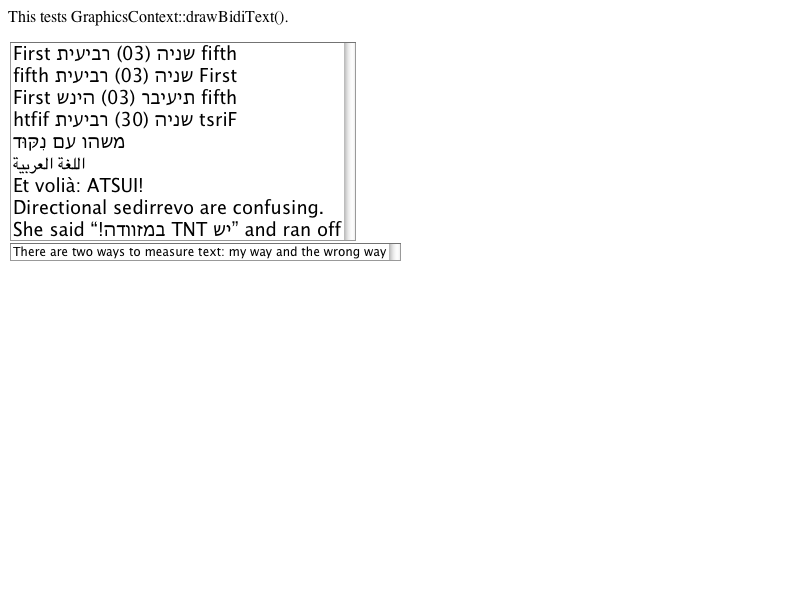
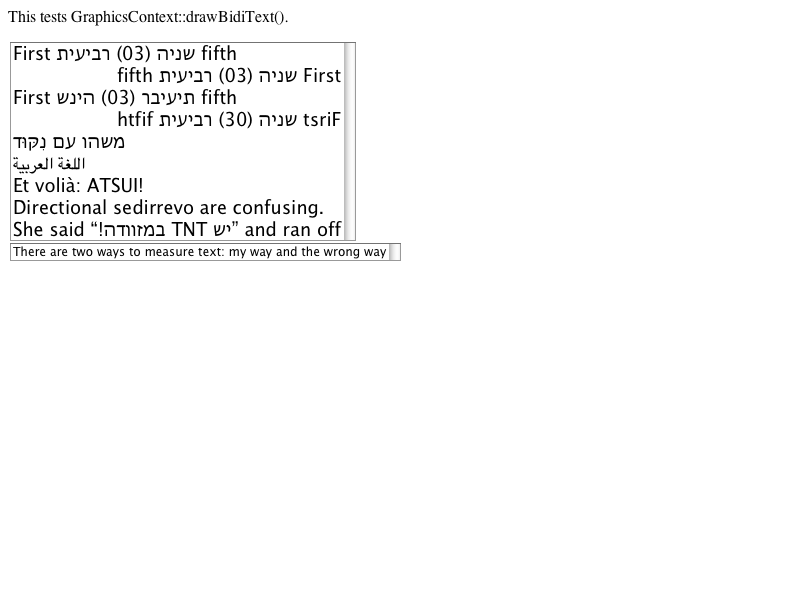
2011-03-28  Ofri Wolfus  <ofri@google.com>
Reviewed by Eric Seidel.

        RTL: Select elements with a size attribute are always left aligned.
        https://bugs.webkit.org/show_bug.cgi?id=50928

        Added support for alignment in RenderListBox.

        * fast/forms/listbox-bidi-align.html: Added.
        * platform/mac/fast/forms/listbox-bidi-align-expected.checksum: Added.
        * platform/mac/fast/forms/listbox-bidi-align-expected.png: Added.
        * platform/mac/fast/forms/listbox-bidi-align-expected.txt: Added.
        * platform/mac/fast/text/drawBidiText-expected.checksum: Updated.
        * platform/mac/fast/text/drawBidiText-expected.png: Updated.
2011-03-28  Ofri Wolfus  <ofri@google.com>

        Reviewed by Eric Seidel.

        RTL: Select elements with a size attribute are always left aligned.
        https://bugs.webkit.org/show_bug.cgi?id=50928

        Added support for alignment in RenderListBox.

        Test: fast/forms/listbox-bidi-align.html

        * rendering/RenderListBox.cpp:
        (WebCore::itemOffsetForAlignment):
        (WebCore::RenderListBox::paintItemForeground): Add support for alignment and directionality.

Identifier: 72002@main
git-svn-id: https://svn.webkit.org/repository/webkit/trunk@82200 268f45cc-cd09-0410-ab3c-d52691b4dbfc

Changed region(s): [[0.0, 0.09, 0.4375, 0.15], [0.0, 0.18, 0.4375, 0.21]]

diff --git a/LayoutTests/fast/forms/listbox-bidi-align.html b/LayoutTests/fast/forms/listbox-bidi-align.html
@@ -1,0 +1,145 @@
+<!DOCTYPE html>
+<html><head><meta http-equiv="Content-Type" content="text/html; charset=utf-8">
+</head>
+<body>
+This test verifies the visual alignment of items in a select element while changing text direction.<br>
+All the items in the following select elements should be left-aligned.
+<table>
+	<tr>
+		<td><select size=3 dir=ltr>
+		<option>This is an English text</option>
+		<option>It needs to be left aligned</option>
+		<option>Some more text</option>
+		</select></td>
+		
+		<td><select size=3 dir=ltr>
+		<option>זה טקסט בעברית</option>
+		<option>הוא צריך להיות מיושר לשמאל</option>
+		<option>ישראל מתייבשת</option>
+		</select></td>
+		
+		<td><select size=3 dir=rtl style="text-align:left;">
+		<option>This is an English text</option>
+		<option>It needs to be left aligned</option>
+		<option>Some more text</option>
+		</select></td>
+		
+		<td><select size=3 dir=rtl style="text-align:left;">
+		<option>זה טקסט בעברית</option>
+		<option>הוא צריך להיות מיושר לשמאל</option>
+		<option>ישראל מתייבשת</option>
+		</select></td>
+	</tr>
+	<tr>
+		<td><select size=3 dir=ltr style="text-align:left;">
+		<option>This is an English text</option>
+		<option>It needs to be left aligned</option>
+		<option>Some more text</option>
+		</select></td>
+		
+		<td><select size=3 dir=ltr style="text-align:left;">
+		<option>זה טקסט בעברית</option>
+		<option>הוא צריך להיות מיושר לשמאל</option>
+		<option>ישראל מתייבשת</option>
+		</select></td>
+	</tr>
+</table>
+All the items in the following select elements should be right-aligned.
+<table>
+	<tr>
+		<td><select size=3 dir=rtl>
+		<option>This is an English text</option>
+		<option>It needs to be right aligned</option>
+		<option>Some more text</option>
+		</select></td>
+		
+		<td><select size=3 dir=rtl>
+		<option>זה טקסט בעברית</option>
+		<option>הוא צריך להיות מיושר לימין</option>
+		<option>ישראל מתייבשת</option>
+		</select></td>
+		
+		<td><select size=3 dir=rtl style="text-align:right;">
+		<option>This is an English text</option>
+		<option>It needs to be right aligned</option>
+		<option>Some more text</option>
+		</select></td>
+		
+		<td><select size=3 dir=rtl style="text-align:right;">
+		<option>זה טקסט בעברית</option>
+		<option>הוא צריך להיות מיושר לימין </option>
+		<option>ישראל מתייבשת</option>
+		</select></td>
+	</tr>
+	<tr>
+		<td><select size=3 dir=ltr style="text-align:right;">
+		<option>This is an English text</option>
+		<option>It needs to be right aligned</option>
+		<option>Some more text</option>
+		</select></td>
+		
+		<td><select size=3 dir=ltr style="text-align:right;">
+		<option>זה טקסט בעברית</option>
+		<option>הוא צריך להיות מיושר לימין </option>
+		<option>ישראל מתייבשת</option>
+		</select></td>
+	</tr>
+</table>
+All the items in the following select elements should be center-aligned.
+<table>
+	<tr>
+		<td><select size=3 dir=rtl style="text-align:center;">
+		<option>This is an English text</option>
+		<option>It needs to be center aligned</option>
+		<option>Some more text</option>
+		</select></td>
+		
+		<td><select size=3 dir=rtl style="text-align:center;">
+		<option>זה טקסט בעברית</option>
+		<option>הוא צריך להיות מיושר לאמצע</option>
+		<option>ישראל מתייבשת</option>
+		</select></td>
+		
+		<td><select size=3 dir=ltr style="text-align:center;">
+		<option>This is an English text</option>
+		<option>It needs to be center aligned</option>
+		<option>Some more text</option>
+		</select></td>
+		
+		<td><select size=3 dir=ltr style="text-align:center;">
+		<option>זה טקסט בעברית</option>
+		<option>הוא צריך להיות מיושר לאמצע </option>
+		<option>ישראל מתייבשת</option>
+		</select></td>
+	</tr>
+</table>
+The following tables check mixed alignments.
+<table>
+	<tr>
+		<td><select size=3 dir=rtl>
+		<option>This should be right aligned</option>
+		<option dir=ltr>This should be left aligned</option>
+		<option style="text-align:center">Center aligned</option>
+		</select></td>
+		
+		<td><select size=3>
+		<option>This should be left aligned</option>
+		<option dir=rtl>This should be right aligned</option>
+		<option style="text-align:center">Center aligned</option>
+		</select></td>
+		
+		<td><select size=3 dir=rtl>
+		<option>טקסט זה צריך להיות מיושר לימין</option>
+		<option dir=ltr>טקסט זה צריך להיות מיושר לשמאל</option>
+		<option style="text-align:center">טקסט ממורכז</option>
+		</select></td>
+		
+		<td><select size=3>
+		<option>טקסט זה צריך להיות מיושר לשמאל</option>
+		<option dir=rtl>טקסט זה צריך להיות מיושר לימין</option>
+		<option style="text-align:center">טקסט ממורכז</option>
+		</select></td>
+	</tr>
+</table>
+</body>
+</html>

diff --git a/Source/WebCore/rendering/RenderListBox.cpp b/Source/WebCore/rendering/RenderListBox.cpp
@@ -322,6 +322,25 @@ void RenderListBox::paintScrollbar(PaintInfo& paintInfo, int tx, int ty)
     }
 }
 
+static IntSize itemOffsetForAlignment(TextRun textRun, RenderStyle* itemStyle, Font itemFont, IntRect itemBoudingBox)
+{
+    ETextAlign actualAlignment = itemStyle->textAlign();
+    // FIXME: Firefox doesn't respect JUSTIFY. Should we?
+    if (actualAlignment == TAAUTO || actualAlignment == JUSTIFY)
+      actualAlignment = itemStyle->isLeftToRightDirection() ? LEFT : RIGHT;
+
+    IntSize offset = IntSize(0, itemFont.fontMetrics().ascent());
+    if (actualAlignment == RIGHT || actualAlignment == WEBKIT_RIGHT) {
+        float textWidth = itemFont.width(textRun);
+        offset.setWidth(itemBoudingBox.width() - textWidth - optionsSpacingHorizontal);
+    } else if (actualAlignment == CENTER || actualAlignment == WEBKIT_CENTER) {
+        float textWidth = itemFont.width(textRun);
+        offset.setWidth((itemBoudingBox.width() - textWidth) / 2);
+    } else
+        offset.setWidth(optionsSpacingHorizontal);
+    return offset;
+}
+
 void RenderListBox::paintItemForeground(PaintInfo& paintInfo, int tx, int ty, int listIndex)
 {
     SelectElement* select = toSelectElement(static_cast<Element*>(node()));
@@ -329,19 +348,18 @@ void RenderListBox::paintItemForeground(PaintInfo& paintInfo, int tx, int ty, in
     Element* element = listItems[listIndex];
     OptionElement* optionElement = toOptionElement(element);
 
+    RenderStyle* itemStyle = element->renderStyle();
+    if (!itemStyle)
+        itemStyle = style();
+
+    if (itemStyle->visibility() == HIDDEN)
+        return;
+
     String itemText;
     if (optionElement)
         itemText = optionElement->textIndentedToRespectGroupLabel();
     else if (OptionGroupElement* optionGroupElement = toOptionGroupElement(element))
-        itemText = optionGroupElement->groupLabelText();      
-
-    // Determine where the item text should be placed
-    IntRect r = itemBoundingBoxRect(tx, ty, listIndex);
-    r.move(optionsSpacingHorizontal, style()->fontMetrics().ascent());
-
-    RenderStyle* itemStyle = element->renderStyle();
-    if (!itemStyle)
-        itemStyle = style();
+        itemText = optionGroupElement->groupLabelText();
     
     Color textColor = element->renderStyle() ? element->renderStyle()->visitedDependentColor(CSSPropertyColor) : style()->visitedDependentColor(CSSPropertyColor);
     if (optionElement && optionElement->selected()) {
@@ -355,17 +373,19 @@ void RenderListBox::paintItemForeground(PaintInfo& paintInfo, int tx, int ty, in
     ColorSpace colorSpace = itemStyle->colorSpace();
     paintInfo.context->setFillColor(textColor, colorSpace);
 
+    unsigned length = itemText.length();
+    const UChar* string = itemText.characters();
+    TextRun textRun(string, length, false, 0, 0, TextRun::AllowTrailingExpansion, !itemStyle->isLeftToRightDirection(), itemStyle->unicodeBidi() == Override);
     Font itemFont = style()->font();
+    IntRect r = itemBoundingBoxRect(tx, ty, listIndex);
+    r.move(itemOffsetForAlignment(textRun, itemStyle, itemFont, r));
+
     if (isOptionGroupElement(element)) {
         FontDescription d = itemFont.fontDescription();
         d.setWeight(d.bolderWeight());
         itemFont = Font(d, itemFont.letterSpacing(), itemFont.wordSpacing());
         itemFont.update(document()->styleSelector()->fontSelector());
     }
-
-    unsigned length = itemText.length();
-    const UChar* string = itemText.characters();
-    TextRun textRun(string, length, false, 0, 0, TextRun::AllowTrailingExpansion, !itemStyle->isLeftToRightDirection(), itemStyle->unicodeBidi() == Override);
 
     // Draw the item text
     if (itemStyle->visibility() != HIDDEN)
